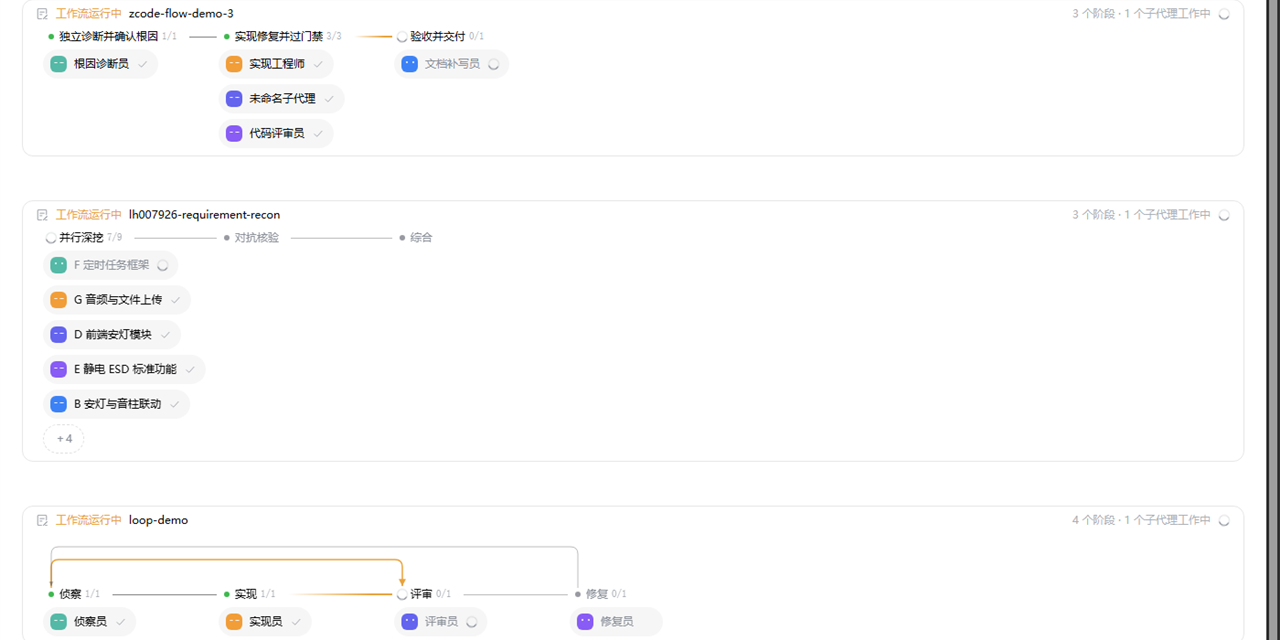
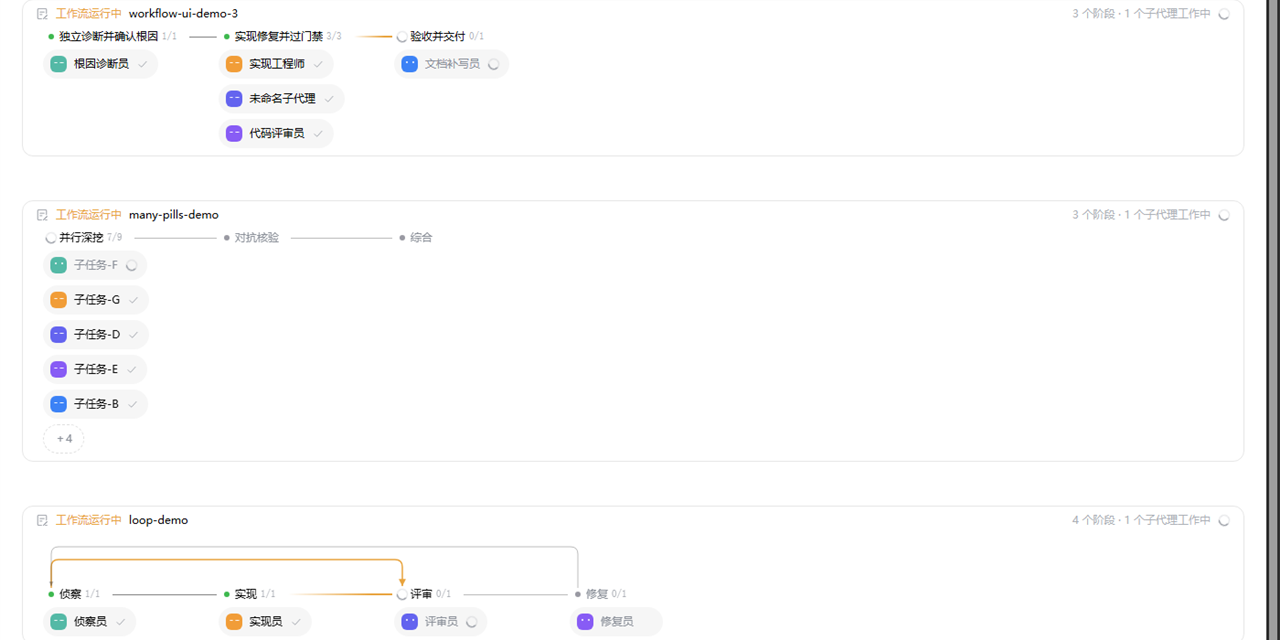
docs: scrub personal data from demo data, authors and copyright lines

diff --git a/CHANGELOG.md b/CHANGELOG.md
@@ -2,7 +2,7 @@
 
 ## 0.1.0 — 2026-10-15
 
-First public release (previously developed privately as `dsh-zcode-flow`).
+First public release.
 
 - Station pill overflow collapses behind a `+N` expander (single-phase runs
   with many agents).

diff --git a/README.md b/README.md
@@ -63,4 +63,4 @@ Layout constants follow ZCode's public workflow presentation (station 168 / pitc
 
 ## License
 
-[MIT](LICENSE) © lijiefeng
+[MIT](LICENSE) © zuiyouli

diff --git a/README.zh.md b/README.zh.md
@@ -63,4 +63,4 @@ chrome --headless=new --virtual-time-budget=3000 --screenshot=shot.png docs/prev
 
 ## 许可
 
-[MIT](LICENSE) © lijiefeng
+[MIT](LICENSE) © zuiyouli
